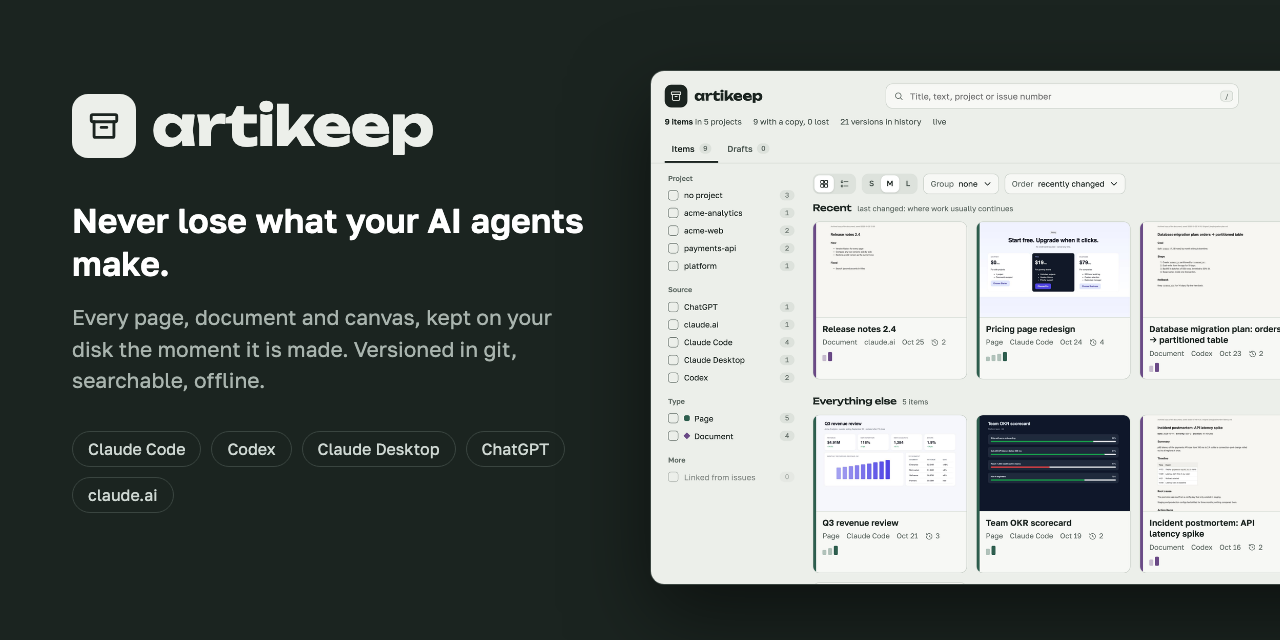
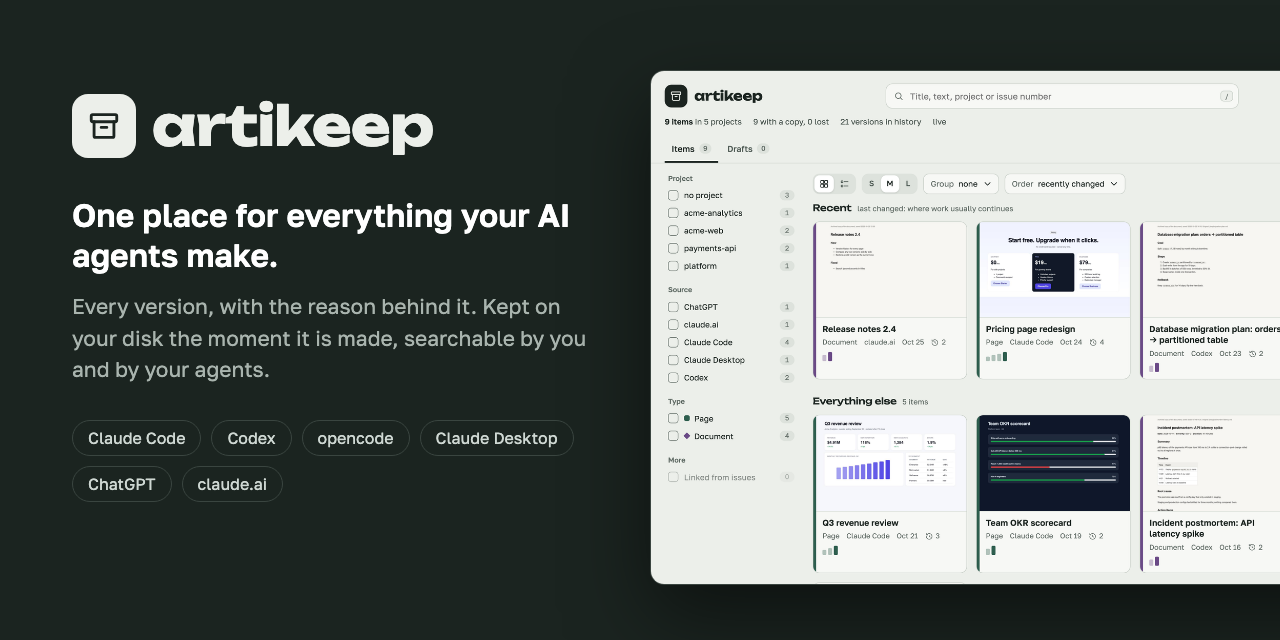
Social preview: the new tagline and opencode

diff --git a/scripts/readme-media/social.html b/scripts/readme-media/social.html
@@ -5,15 +5,15 @@ body{margin:0;width:1280px;height:640px;overflow:hidden;background:#1B2420;font-
 .l{position:absolute;left:72px;top:92px;width:520px}
 .mark{display:flex;align-items:center;gap:16px;font:700 54px Unbounded;letter-spacing:-.01em}
 .mark i{width:64px;height:64px;border-radius:16px;background:#ECEFEA;display:grid;place-items:center}
-h2{font:600 34px/1.25 "Golos Text";margin:40px 0 18px;color:#fff}
+h2{font:600 32px/1.25 "Golos Text";margin:36px 0 16px;color:#fff}
 p{font-size:21px;line-height:1.5;color:#A9B4AE;margin:0}
 .chips{display:flex;gap:10px;flex-wrap:wrap;margin-top:34px}
 .chips span{border:1px solid #3A4540;border-radius:99px;padding:7px 15px;font-size:16px;color:#CFD8D3}
 .shot{position:absolute;left:650px;top:70px;width:820px;border-radius:14px;box-shadow:0 30px 80px rgba(0,0,0,.5);border:1px solid #3A4540}
 </style></head><body>
 <div class="l"><div class="mark"><i><svg width="34" height="34" viewBox="0 0 24 24" fill="none" stroke="#1B2420" stroke-width="2" stroke-linecap="round" stroke-linejoin="round"><rect x="3" y="4" width="18" height="5" rx="1"/><path d="M5 9v10a1 1 0 0 0 1 1h12a1 1 0 0 0 1-1V9M10 13h4"/></svg></i>artikeep</div>
-<h2>Never lose what your AI agents make.</h2>
-<p>Every page, document and canvas, kept on your disk the moment it is made. Versioned in git, searchable, offline.</p>
-<div class="chips"><span>Claude Code</span><span>Codex</span><span>Claude Desktop</span><span>ChatGPT</span><span>claude.ai</span></div></div>
+<h2>One place for everything your AI agents make.</h2>
+<p>Every version, with the reason behind it. Kept on your disk the moment it is made, searchable by you and by your agents.</p>
+<div class="chips"><span>Claude Code</span><span>Codex</span><span>opencode</span><span>Claude Desktop</span><span>ChatGPT</span><span>claude.ai</span></div></div>
 <img class="shot" src="../../docs/media/gallery-light.png">
 </body></html>
